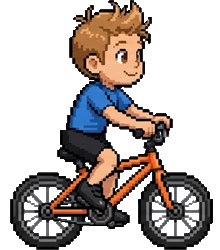
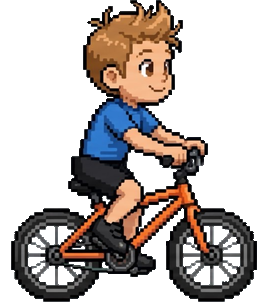
Gianluca e Lívia na mesma altura dos demais (302 px)
Claude-Session: https://claude.ai/code/session_01JWARVxodwXbVVRqa2zBGJ1

diff --git a/CLAUDE.md b/CLAUDE.md
@@ -47,7 +47,7 @@ BootScene → TitleScene → CharacterSelectScene → GameScene + HUDScene (para
 
 - `CHARACTERS` (`Characters.js`): `key`, `name`, `collectible`. `BootScene`, `GameScene` e a seleção leem
   daí. As chaves dos arquivos são antigas e não foram renomeadas: `andre`=Dedé, `thais`=Tatá, `rafinha`,
-  `marcela`=Pitu, `marilia`=Pitcha, `solange`=Gê, `texaco`=Caco, `gianluca`=Gianluca (bicicleta: o "andar" é a pedalada; canvas de 250 px de altura), `livia`=Lívia (bailarina: o "andar" é a dança; canvas de 270 px).
+  `marcela`=Pitu, `marilia`=Pitcha, `solange`=Gê, `texaco`=Caco, `gianluca`=Gianluca (bicicleta: o "andar" é a pedalada), `livia`=Lívia (bailarina: o "andar" é a dança).
 - `COLLECTIBLE_TYPES` (`Collectibles.js`): um tipo por item (`texture`, `value`, `groupBonus`, `color`, `sfx` e `draw`
   **ou** `image`). `coin` é o item padrão (fallback). `COLLECTIBLE_LAYOUT` é igual para todos.
 - **Personagem novo:** PNGs `assets/<chave>_idle.png` + `<chave>_walk1..4.png` (altura 302 px, fundo transparente,
